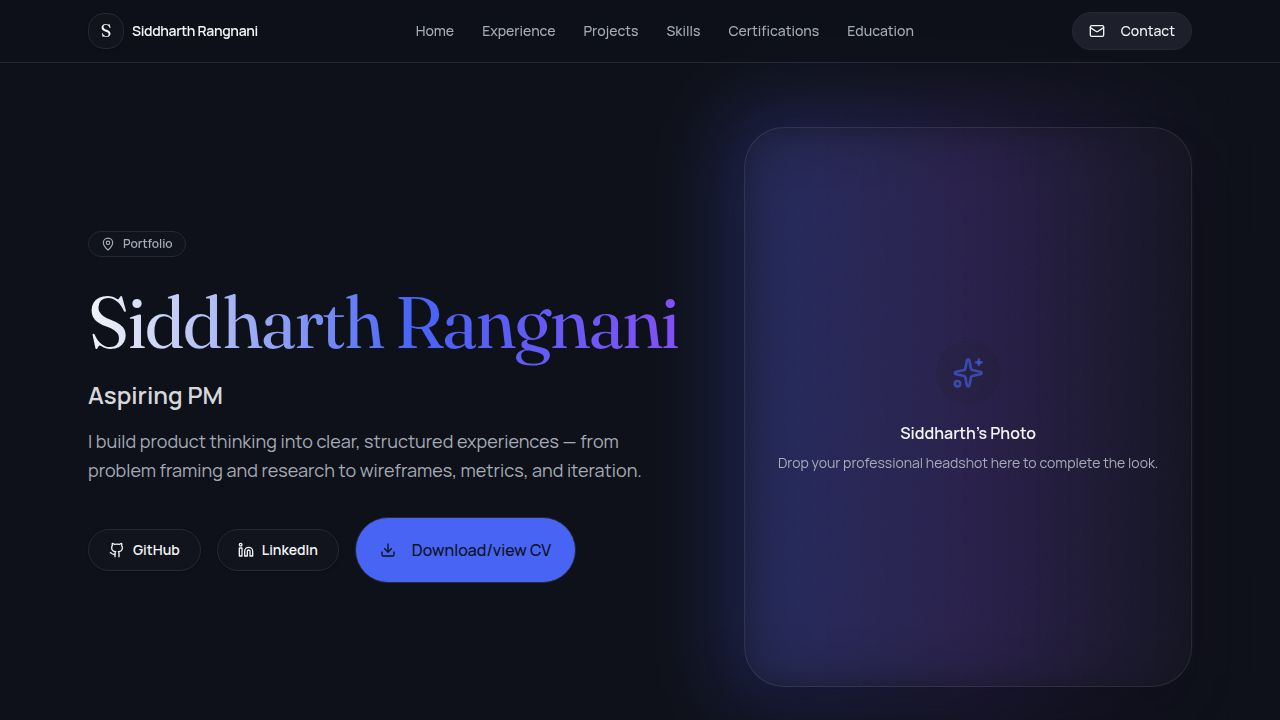
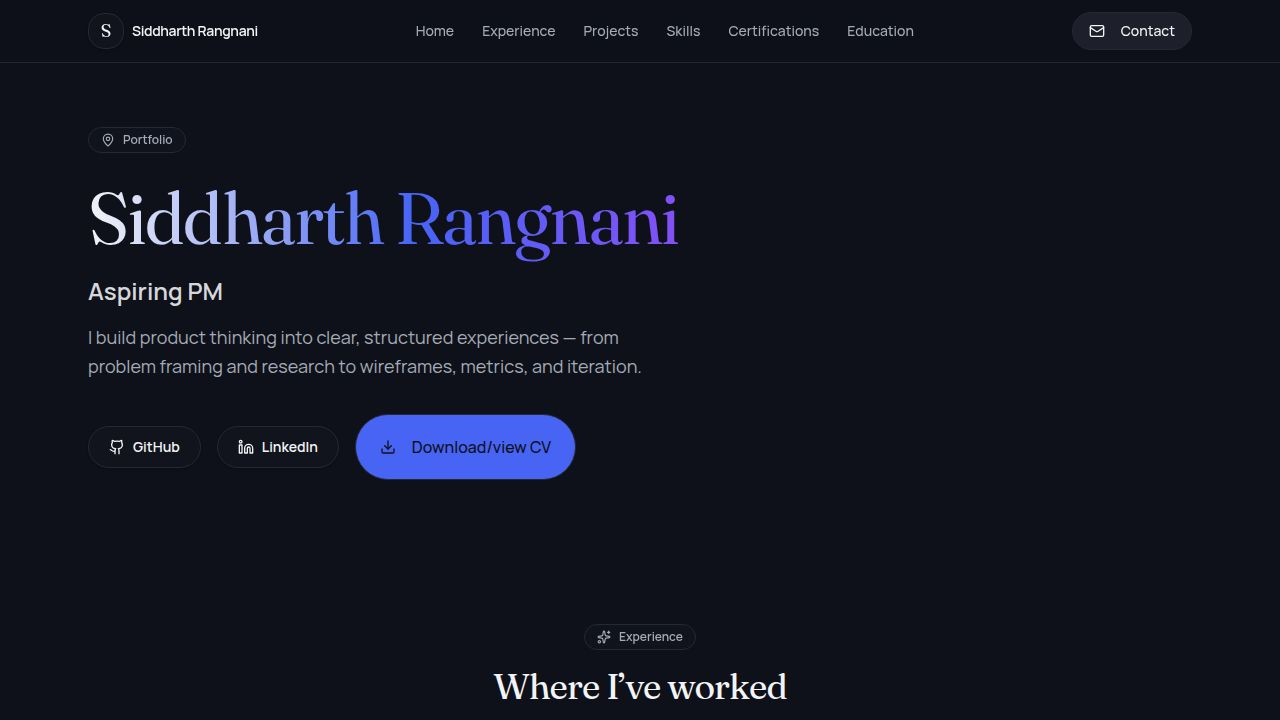
Remove photo section and reposition name to the left side
Removes the image placeholder from the hero section and adjusts the layout to align the name and details to the left.

Replit-Commit-Author: Agent
Replit-Commit-Session-Id: 142c2ce0-adfc-43ed-b1d7-2df427a76a7b
Replit-Commit-Checkpoint-Type: full_checkpoint
Replit-Commit-Event-Id: 97810047-d14f-4585-af29-c0587c31681a
Replit-Commit-Screenshot-Url: https://storage.googleapis.com/screenshot-production-us-central1/23f77d41-8da3-48c1-a7d5-f9816425af16/142c2ce0-adfc-43ed-b1d7-2df427a76a7b/Wz7Ck12
Replit-Helium-Checkpoint-Created: true

diff --git a/client/src/pages/portfolio.tsx b/client/src/pages/portfolio.tsx
@@ -344,37 +344,9 @@ export default function Portfolio() {
       <main>
         <section id="home" className="scroll-mt-24" aria-label="Home">
           <div className="mx-auto max-w-6xl px-4 pb-10 pt-12 sm:px-6 sm:pb-16 sm:pt-16">
-            <div className="flex flex-col items-center justify-between gap-10 lg:flex-row lg:gap-14">
+            <div className="flex flex-col gap-10 lg:flex-row lg:gap-14">
               <motion.div 
                 initial={{ opacity: 0, x: -30 }}
-                animate={{ opacity: 1, x: 0 }}
-                transition={{ duration: 0.6, delay: 0.2 }}
-                className="relative w-full max-md:max-w-md lg:w-[450px]"
-              >
-                <div className="absolute -inset-4 rounded-[2.5rem] bg-gradient-to-r from-primary/30 via-accent/20 to-transparent blur-2xl" />
-                <div
-                  className="relative aspect-[4/5] w-full overflow-hidden rounded-[2.5rem] border border-white/10 bg-card/40 shadow-2xl backdrop-blur-md"
-                  data-testid="img-profile-placeholder"
-                >
-                  <div className="absolute inset-0 grid place-items-center p-8">
-                    <div className="text-center">
-                      <div className="mx-auto mb-4 flex h-16 w-16 items-center justify-center rounded-full bg-muted/20">
-                        <Sparkles className="h-8 w-8 text-primary/60" />
-                      </div>
-                      <p className="text-base font-semibold" data-testid="text-photo-placeholder-title">
-                        Siddharth's Photo
-                      </p>
-                      <p className="mt-2 text-sm text-muted-foreground" data-testid="text-photo-placeholder-subtitle">
-                        Drop your professional headshot here to complete the look.
-                      </p>
-                    </div>
-                  </div>
-                  <div className="noise absolute inset-0 opacity-30" />
-                </div>
-              </motion.div>
-
-              <motion.div 
-                initial={{ opacity: 0, x: 30 }}
                 animate={{ opacity: 1, x: 0 }}
                 transition={{ duration: 0.6 }}
                 className="flex-1"
